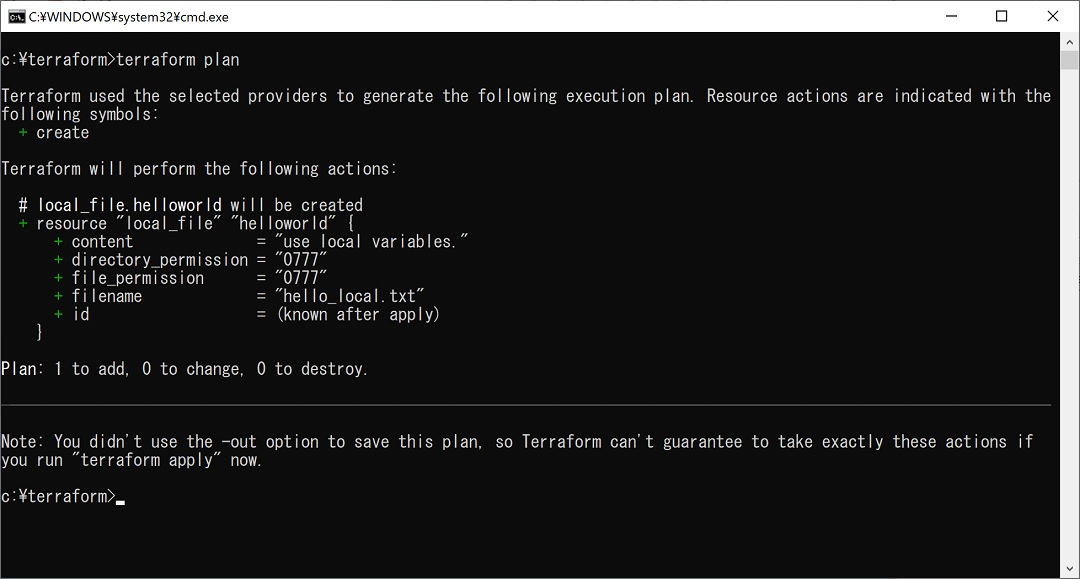
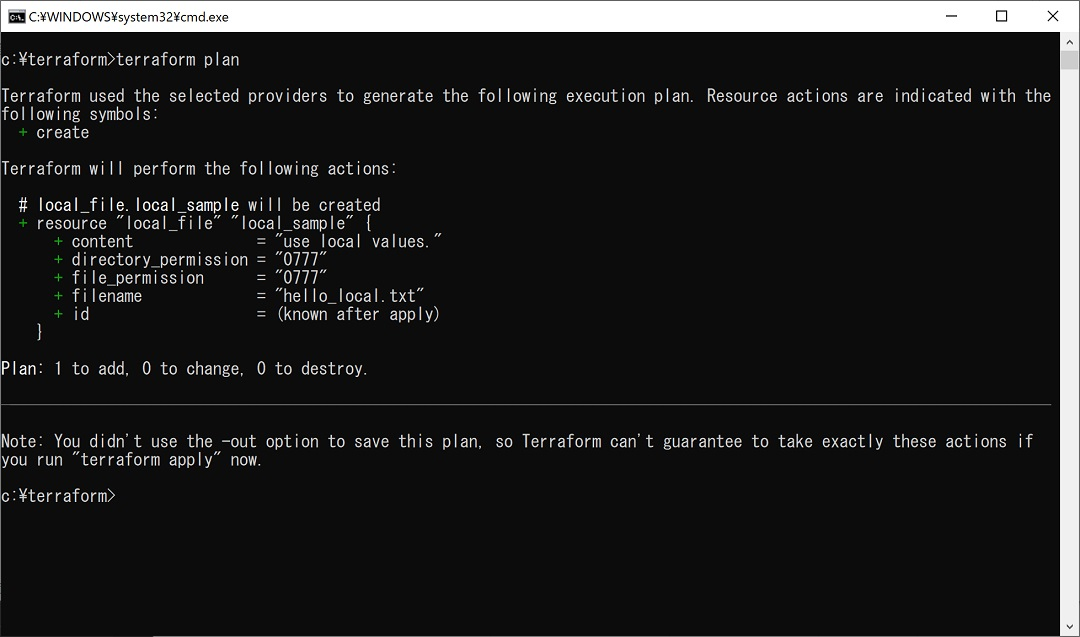
wip. add images.

diff --git a/articles/terraform_biginner_varliable.md b/articles/terraform_biginner_varliable.md
@@ -46,7 +46,7 @@ Trraformには2種類の変数があります。
       content  = "use local values."
       filename = "hello_local.txt"
     }
-    resource "local_file" "helloworld" {
+    resource "local_file" "local_sample" {
       content  = local.content
       filename = local.filename
     }
@@ -58,9 +58,9 @@ Trraformには2種類の変数があります。
       default = "use input variables default value."
     }
     variable filename {
-      default = "default_var.txt"
+      default = "default_input.txt"
     }
-    resource "local_file" "helloworld" {
+    resource "local_file" "input_sample" {
       content  = var.content
       filename = var.filename
     }
@@ -75,28 +75,61 @@ Trraformには2種類の変数があります。
       content  = "use local values."
       filename = "hello_local.txt"
     }
-    resource "local_file" "helloworld" {
+    resource "local_file" "local_sample" {
       content  = local.content
       filename = local.filename
     }
     ```
 
-1. plan
+1. 実行結果を事前確認する
+    実行結果を事前確認するための「plan」コマンドを実行します。ローカル変数を使用してファイルを作成できそうです。
     ![image title](/images/terraform_biginner_varliable/terraform_biginner_varliable_tutorial_01.jpg)
 
-1. apply
+1. Terraformでファイルを作成する
+    ファイルを作成するために「apply」コマンドを実行します。
+    ![image title](/images/terraform_biginner_varliable/terraform_biginner_varliable_tutorial_02.jpg)
+    ファイルが作成されています。
+    ![image title](/images/terraform_biginner_varliable/terraform_biginner_varliable_tutorial_03.jpg)
+    ファイルの中身もローカル変数で指定した通りです。
+    ![image title](/images/terraform_biginner_varliable/terraform_biginner_varliable_tutorial_04.jpg)
 
 # 入力変数を使用したファイル生成コードを作る
 
 1. terraformコード作成する
+    入力変数を使用するコードを作成します。
     ```hcl:helloworld_input.tf
+    variable content {
+      default = "use input variables default value."
+    }
+    variable filename {
+      default = "default_input.txt"
+    }
+    resource "local_file" "input_sample" {
+      content  = var.content
+      filename = var.filename
+    }
     ```
 
+1. デフォルト値での実行結果を事前確認する
+    実行結果を事前確認するための「plan」コマンドを実行します。入力変数のデフォルト値を使用してファイルを作成できそうです。
+    ![image title](/images/terraform_biginner_varliable/terraform_biginner_varliable_tutorial_05.jpg)
 
-1. plan
+1. デフォルト値でファイルを作成する
+    ファイルを作成するために「apply」コマンドを実行します。
+    ![image title](/images/terraform_biginner_varliable/terraform_biginner_varliable_tutorial_06.jpg)
+    ファイルが作成されています。
+    ![image title](/images/terraform_biginner_varliable/terraform_biginner_varliable_tutorial_07.jpg)
+    ファイルの中身もローカル変数で指定した通りです。
+    ![image title](/images/terraform_biginner_varliable/terraform_biginner_varliable_tutorial_08.jpg)
+
+1. 実行時に値を指定して事前確認する
+    入力変数の値をコマンド実行時に指定して事前確認します。指定した入力変数を使用してファイルを作成しそうです。
+    ![image title](/images/terraform_biginner_varliable/terraform_biginner_varliable_tutorial_09.jpg)
 
 1. apply
-
+    ![image title](/images/terraform_biginner_varliable/terraform_biginner_varliable_tutorial_10.jpg)
+    ![image title](/images/terraform_biginner_varliable/terraform_biginner_varliable_tutorial_11.jpg)
+    ![image title](/images/terraform_biginner_varliable/terraform_biginner_varliable_tutorial_12.jpg)
 
 # サンプルコード
 この記事で作成したコードはgithub上に公開しています。
